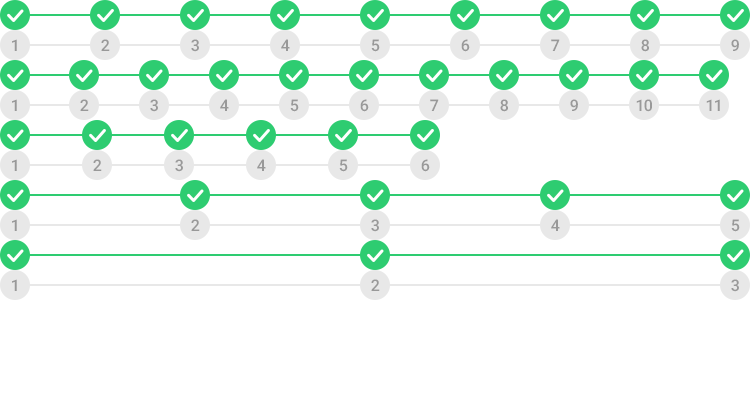
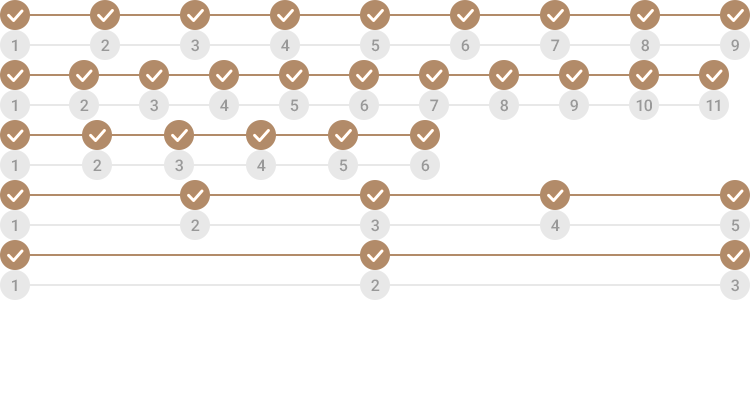
칼라변경

diff --git a/src/css/jquery-ui/jquery-ui-theme.css b/src/css/jquery-ui/jquery-ui-theme.css
@@ -72,7 +72,7 @@
 .ui-state-active,
 .ui-widget-content .ui-state-active,
 .ui-widget-header .ui-state-active {
-	background:#00aeb9;
+	background:#465f8d;
 	color:#fff;
 	border:none;
 }
@@ -91,7 +91,7 @@
 	width:26px;
 	height:26px;
 	line-height:26px;
-	border: 1px solid #00aeb9;
+	border: 1px solid #465f8d;
 }
 .ui-state-highlight a,
 .ui-widget-content .ui-state-highlight a,
@@ -99,7 +99,7 @@
 	width:26px;
 	height:26px;
 	line-height:26px;
-	border: 1px solid #00aeb9;
+	border: 1px solid #465f8d;
 	
 }
 .ui-state-error,
